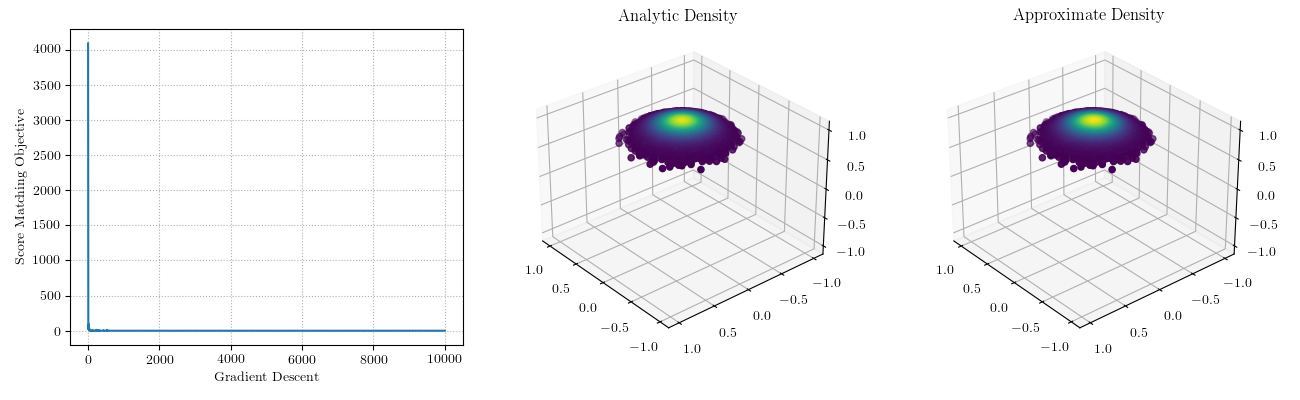
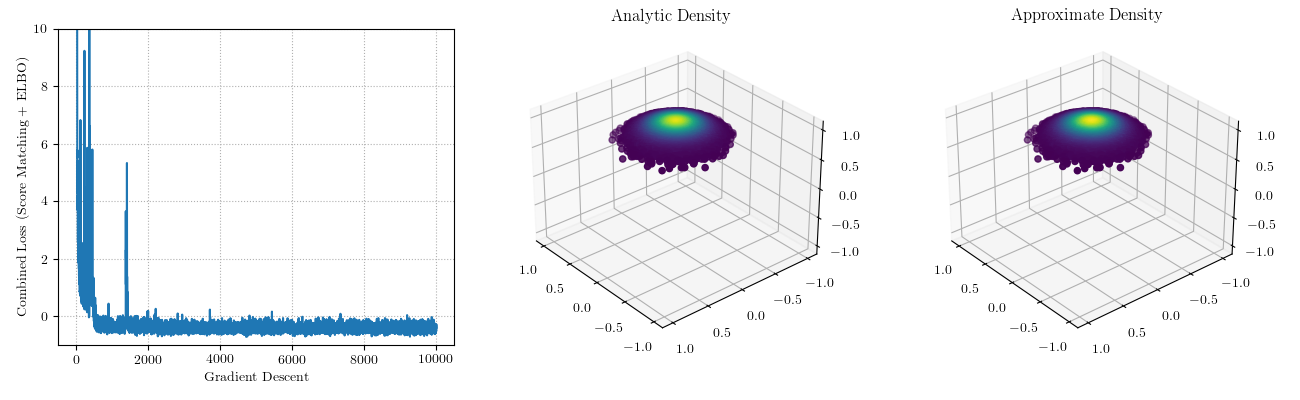
update axis

diff --git a/examples/density-estimation/score_matching.py b/examples/density-estimation/score_matching.py
@@ -145,9 +145,10 @@ print('kl-divergence: {:.5f}'.format(kl))
 fig = plt.figure(figsize=(13, 4))
 ax = fig.add_subplot(131)
 ax.plot(trace)
+ax.set_ylim((-1., 10))
 ax.grid(linestyle=':')
 ax.set_xlabel('Gradient Descent')
-ax.set_ylabel('Score Matching Objective')
+ax.set_ylabel('Combined Loss (Score Matching + ELBO)')
 ax = fig.add_subplot(132, projection='3d')
 ax.set_title('Analytic Density')
 m = ax.scatter(xs[:, 0], xs[:, 1], xs[:, 2], c=p_target, vmin=0., vmax=4.2)

diff --git a/examples/density-estimation/README.md b/examples/density-estimation/README.md
@@ -8,3 +8,7 @@ In this example we will seek to minimize the score matching loss for a power sph
 
 ![Power Spherical Density Estimate](images/power-spherical-mixture-score-matching-elbo-weight-1.0.png)
 
+There are 10,000 training steps, 75 importance samples, and a learning rate of 0.001. Here is the invocation to reproduce:
+```
+singularity exec --nv ~/scratch60/singularity-containers/manifold-dequantization.sif python score_matching.py --num-steps 10000 --lr 1e-3 --num-importance 75 --seed 0
+```
